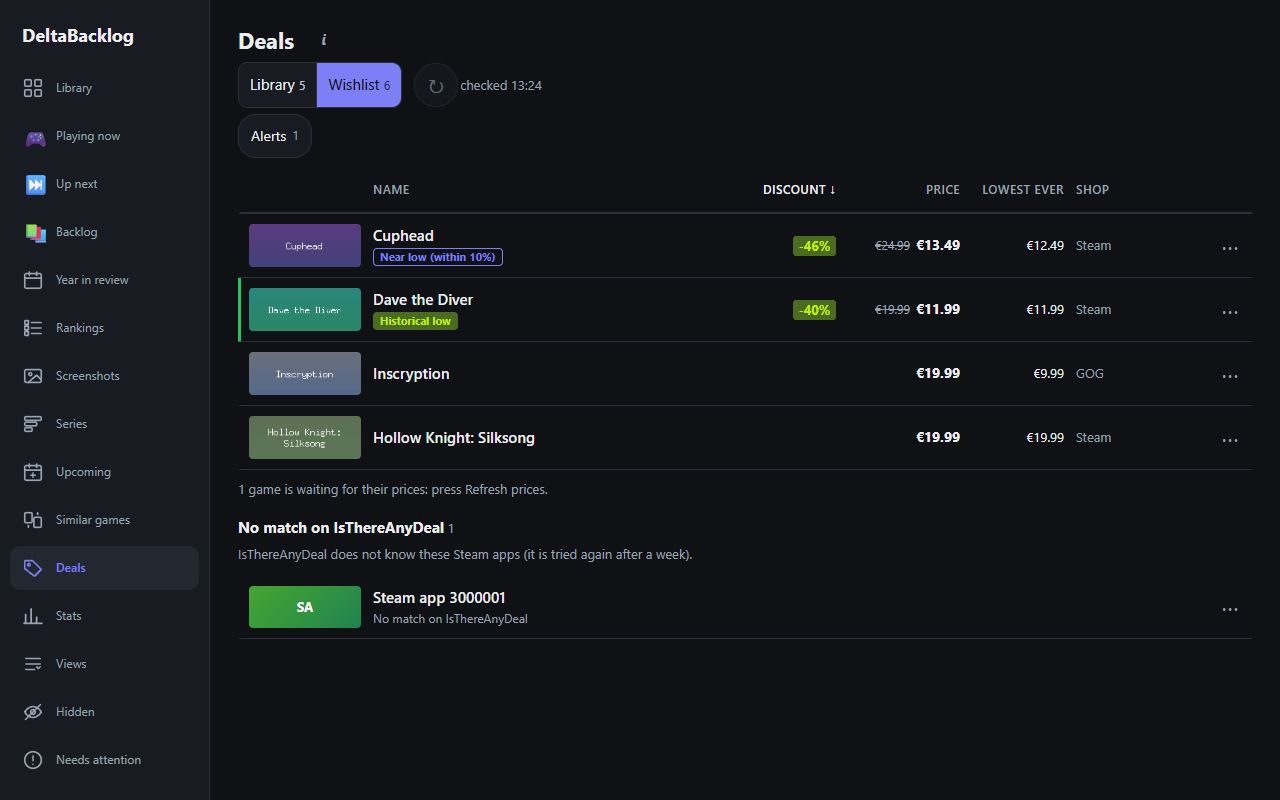
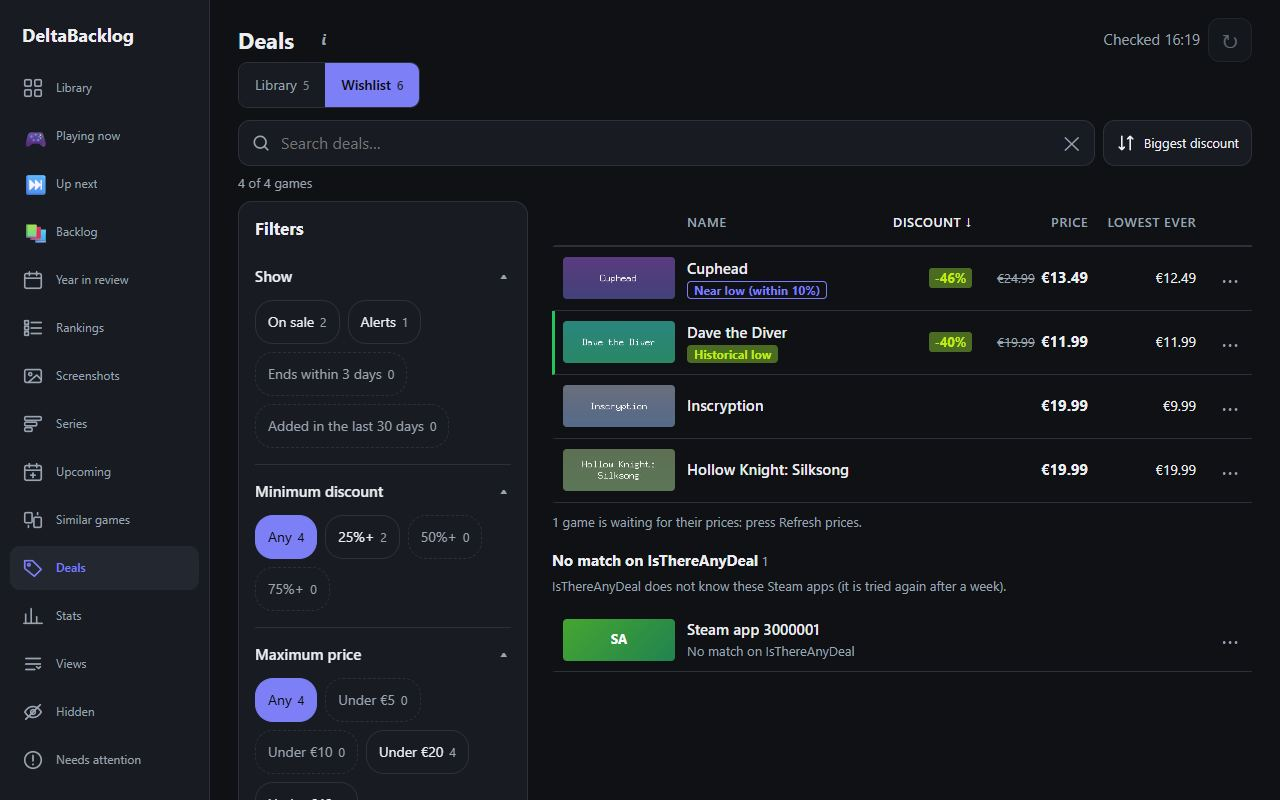
Deals: Library-style toolbar and filter panel, filters in the address, 6-hourly price check, docs and screenshots (service worker v75)

diff --git a/web/static/sw.js b/web/static/sw.js
@@ -1,6 +1,6 @@
 // App shell cache + runtime caching. Bump VERSION when shell files change.
 
-const VERSION = 'v74';
+const VERSION = 'v75';
 
 // The app's base path: '/' at the root, '/backlog/' behind a proxy that serves it under that prefix. Every path in
 // this file is relative to it (SHELL_FILES resolve against this script's URL).
@@ -14,7 +14,7 @@ const COVERS = `${NS}covers-v2`; // keyed by path (one entry per cover file); th
 const THUMBS = `${NS}screenshot-thumbs`; // shotsview.js deletes from it by the same name
 const MAX_THUMBS = 400; // thumbnails are ~30 KB each; originals are never cached
 const API = `${NS}api`;
-const SHELL_FILES = ['./', 'styles.css', 'js/main.js', 'js/api.js', 'js/util.js', 'js/format.js', 'js/library.js', 'js/drawer.js', 'js/sort.js', 'js/filters.js', 'js/ttb.js', 'js/ttbfilter.js', 'js/ttbview.js', 'js/views.js', 'js/order.js', 'js/reorder.js', 'js/table.js', 'js/picker.js', 'js/csv.js', 'js/add.js', 'js/uploadcheck.js', 'js/imageprep.js', 'js/platforms.js', 'js/ownership.js', 'js/form.js', 'js/editpatch.js', 'js/years.js', 'js/yearreview.js', 'js/yearpage.js', 'js/tierpng.js', 'js/rankboard.js', 'js/rankdrag.js', 'js/rankingedit.js', 'js/rankingspage.js', 'js/gamepicker.js', 'js/savequeue.js', 'js/more.js', 'js/colors.js', 'js/pick.js', 'js/surprise.js', 'js/series.js', 'js/seriesview.js', 'js/upcoming.js', 'js/upcomingview.js', 'js/similar.js', 'js/similarview.js', 'js/similardrawer.js', 'js/deals.js', 'js/dealsview.js', 'js/dealsdrawer.js', 'js/hidden.js', 'js/hiddenview.js', 'js/stats.js', 'js/statspage.js', 'js/link.js', 'js/linkqueue.js', 'js/attention.js', 'js/attentionview.js', 'js/relink.js', 'js/relinkprompt.js', 'js/shots.js', 'js/shotsview.js', 'js/gallery.js', 'js/gallerypage.js', 'js/shotviewer.js', 'js/layers.js', 'js/layerlogic.js', 'js/actionsheet.js', 'js/gameurl.js', 'js/tablegrid.js', 'icon.svg', 'icon-192.png', 'icon-512.png', 'icon-maskable-512.png', 'apple-touch-icon.png'];
+const SHELL_FILES = ['./', 'styles.css', 'js/main.js', 'js/api.js', 'js/util.js', 'js/format.js', 'js/library.js', 'js/drawer.js', 'js/sort.js', 'js/filters.js', 'js/ttb.js', 'js/ttbfilter.js', 'js/ttbview.js', 'js/views.js', 'js/order.js', 'js/reorder.js', 'js/table.js', 'js/picker.js', 'js/csv.js', 'js/add.js', 'js/uploadcheck.js', 'js/imageprep.js', 'js/platforms.js', 'js/ownership.js', 'js/form.js', 'js/editpatch.js', 'js/years.js', 'js/yearreview.js', 'js/yearpage.js', 'js/tierpng.js', 'js/rankboard.js', 'js/rankdrag.js', 'js/rankingedit.js', 'js/rankingspage.js', 'js/gamepicker.js', 'js/savequeue.js', 'js/more.js', 'js/colors.js', 'js/pick.js', 'js/surprise.js', 'js/series.js', 'js/seriesview.js', 'js/upcoming.js', 'js/upcomingview.js', 'js/similar.js', 'js/similarview.js', 'js/similardrawer.js', 'js/deals.js', 'js/dealsview.js', 'js/dealsdrawer.js', 'js/hidden.js', 'js/hiddenview.js', 'js/stats.js', 'js/statspage.js', 'js/link.js', 'js/linkqueue.js', 'js/attention.js', 'js/attentionview.js', 'js/relink.js', 'js/relinkprompt.js', 'js/shots.js', 'js/shotsview.js', 'js/gallery.js', 'js/gallerypage.js', 'js/shotviewer.js', 'js/layers.js', 'js/layerlogic.js', 'js/actionsheet.js', 'js/gameurl.js', 'js/filtershell.js', 'js/tablegrid.js', 'icon.svg', 'icon-192.png', 'icon-512.png', 'icon-maskable-512.png', 'apple-touch-icon.png'];
 
 self.addEventListener('install', (e) => {
   e.waitUntil(caches.open(SHELL).then((c) => c.addAll(SHELL_FILES)).then(() => self.skipWaiting()));

diff --git a/web/static/styles.css b/web/static/styles.css
@@ -1112,6 +1112,7 @@ button.up-open { cursor: pointer; border-radius: 8px; }
 .dl-title { display: block; overflow: hidden; text-overflow: ellipsis; white-space: nowrap; }
 .dl-tags { display: flex; gap: 4px; overflow: hidden; }
 .dl-tag { flex: none; font-size: 12px; font-weight: 700; line-height: 16px; padding: 0 6px; border-radius: 4px; white-space: nowrap; border: 1px solid transparent; }
+@media (max-width: 599px) { .dl-tag { font-size: 11px; } }
 .dl-tag.low { background: #4c6b22; color: #beee11; }
 .dl-tag.near { border-color: var(--accent); color: var(--accent); }
 .dl-tag.alert { background: #b45309; color: #fff; }

diff --git a/deploy/deals_timer_test.go b/deploy/deals_timer_test.go
@@ -51,7 +51,7 @@ func TestDealsTimerIsInstalled(t *testing.T) {
 			t.Errorf("service lacks %q", want)
 		}
 	}
-	for _, want := range []string{"OnCalendar=*-*-*", "Persistent=true", "RandomizedDelaySec=", "WantedBy=timers.target"} {
+	for _, want := range []string{"OnCalendar=*-*-* 02,08,14,20:00:00", "Persistent=true", "RandomizedDelaySec=15min", "WantedBy=timers.target"} {
 		if !strings.Contains(timer, want) {
 			t.Errorf("timer lacks %q", want)
 		}

diff --git a/docs/developer-manual.md b/docs/developer-manual.md
@@ -402,7 +402,7 @@ Plain ES modules loaded from `index.html`; hash routing (`#/library`, `#/view/<i
 | `gameurl.js` | **pure** `gameIdFromHash` / `hashWithGame`: the open game in the address (`#/<page>?game=<id>`). `drawer.js` sets it with `replaceUrl` on open and removes it (before releasing its layer) on close; `main.js` `showGame` opens it after a load or reload and on a hand-edited hash; `library.js` keeps it when it rewrites its own query |
 | `tablegrid.js` | **pure** `nextCell` (arrow, Home/End, PageUp/PageDown moves, clamped) and `isEditKey` for the table's roving focus; `table.js` keeps `active = {gid, ci}`, one `tabindex=0` cell, and a fallback tab stop on the grid while the active cell is windowed out |
 | `hidden.js`, `hiddenview.js` | **pure** `groupHidden` / `withoutItem` / `becauseTitles` / `hiddenOn` (the rows of `GET /api/hidden` by group, empty groups left out) and the `#/hidden` page (rows in the Upcoming style, **Show again** through the Deals, Similar and Series unhide calls, Undo hides again and reads the list again) |
-| `deals.js`, `dealsview.js`, `dealsdrawer.js` | **pure** `buildDeals` (the rows, only for the games in `info.watched`; `hiddenGames` for the Hidden list; the games with no match and those still waiting, status filter and the sorts), `badgeOf` (`low` at or under the recorded low, `near` within 10% above it), money and date formatting (`Intl`, en-GB), `safeLink` (http(s) only); the `#/deals` page (refresh job polling like the Series page, country field) and the drawer's **Price** row with the match fixer. The window event `deals-changed` makes the page reload after a match is changed in a drawer. Alerts: `alertOf`, `unseenCount`, `isMuted`, `ALERT_LABEL` and the `alertsOnly` option of `buildDeals` (the Alerts chip); the page marks the alerts seen once per visit (`dealsAlertsSeen`, remembering which were new for the *New* tag), opens an action sheet on a row tap (a native `<dialog>`, built by `openSheet`: View deal, Open game / Steam page, Add to library, Mute, Hide; it stays open across the poll redraws and closes on an action, Close, Escape or a view change) and, with `info.telegram`, has a **Send test message** button in the (i) panel; the drawer has the **Price alerts: on/off** toggle and the two-year low line. `main.js` reads `unseen` once at start-up (`loadDealsUnseen`) and shows a count badge on Deals in the sidebar, in the More sheet (a `badge` on the `MORE_PAGES` entry) and on the More button; `deals-unseen` redraws it. The **Library / Wishlist** switch (only when `info.wishlist` is not null) is `view` in `dealsview.js`; the pure `buildWishlist` (same sorts, tags and Alerts filter as `buildDeals`, plus `steamStoreURL`) feeds `wishRow`. Rows are one `dlRow` (a grid: capsule, name and tags, `-cut%`, price, and on a PC the Lowest ever / Shop / Ends / Added columns, Shop only from 1200px and Ends / Added only from 1440px, so titles keep their room and the page never scrolls sideways; the header row is `role=columnheader` buttons, a second click on the active one reverses with `dir = -1`). Pure and tested in `dealscolumns.test.mjs`: `rowSorter` (the key's natural order; rows with no value always last), `SORT_KEYS` (the phone select), `COLUMNS` (the table headers), `tagsOf`, `lowLine` and `checkedLabel`. Images: `wishImage` (`covers/<item.image>`) for wishlist games, and for library rows `coverURL || posterURL || info.lib_images[game.id]` (the Steam picture of their Steam link, for games without a cover). A wishlist row has no drawer (its sheet offers the Steam page); **Add to library** calls `openAdd({ query: title })` and the `games-changed` event reloads the cache, which no longer lists it (`dealswishlist.test.mjs`) |
+| `deals.js`, `dealsview.js`, `dealsdrawer.js`, `filtershell.js` | **pure** (`deals.js`) filters: `emptyDealsFilter` (`q`, `statuses`, `sale`, `minCut` 25/50/75, `maxPrice` 5/10/20/40 in whole currency units, `lows` historical / two_year / near, `alerts`, `stores`, `ends` within 3 days, `added` within 30 days), `rowPasses(f, row, now, skip)`, `lowKindsOf`, `endsWithin`, `storesOf`, `dealsFilterCount`, `priceFilterActive` (a filter only a price can pass also leaves the unmatched / waiting sections out) and the address: `dealsStateFromQuery` / `dealsStateToQuery` (`#/deals?view=wishlist&q=&status=&sale=1&min=&max=&low=&alerts=1&store=&ends=1&added=1&sort=&dir=-1`; anything unknown is dropped, defaults are not written, every shop is its own `store=`), tested in `dealsfilters.test.mjs`. `buildDeals` / `buildWishlist` take `{filter, sort, dir, now}` (`statuses` and `alertsOnly` still work). `filtershell.js` holds what the Library's toolbar shares with Deals: `createSearchBox`, `createFilterButton`, `createFilterShell` (the panel as a bottom sheet below 900px, a sidebar above, `inert` while closed, a layer), `filterGroup`, `pill` and `createSheet` (the sort sheets); `library.js` and `sort.js` use them too (the Library's address format is unchanged). The page keeps one persistent toolbar and panel and only repaints the results, chips, pills and head on `draw()` (so typing in the search box never loses focus) and writes its state with `replaceUrl`, keeping `game=`. The table's columns follow the width of the list (`container: dl` on `.dl-results`, `@container` rules), not the window. | `buildDeals` (the rows, only for the games in `info.watched`; `hiddenGames` for the Hidden list; the games with no match and those still waiting, status filter and the sorts), `badgeOf` (`low` at or under the recorded low, `near` within 10% above it), money and date formatting (`Intl`, en-GB), `safeLink` (http(s) only); the `#/deals` page (refresh job polling like the Series page, country field) and the drawer's **Price** row with the match fixer. The window event `deals-changed` makes the page reload after a match is changed in a drawer. Alerts: `alertOf`, `unseenCount`, `isMuted`, `ALERT_LABEL` and the `alertsOnly` option of `buildDeals` (the Alerts chip); the page marks the alerts seen once per visit (`dealsAlertsSeen`, remembering which were new for the *New* tag), opens an action sheet on a row tap (a native `<dialog>`, built by `openSheet`: View deal, Open game / Steam page, Add to library, Mute, Hide; it stays open across the poll redraws and closes on an action, Close, Escape or a view change) and, with `info.telegram`, has a **Send test message** button in the (i) panel; the drawer has the **Price alerts: on/off** toggle and the two-year low line. `main.js` reads `unseen` once at start-up (`loadDealsUnseen`) and shows a count badge on Deals in the sidebar, in the More sheet (a `badge` on the `MORE_PAGES` entry) and on the More button; `deals-unseen` redraws it. The **Library / Wishlist** switch (a `.mode` segment under the title, only when `info.wishlist` is not null) is `view` in `dealsview.js`; the pure `buildWishlist` (same sorts, tags and Alerts filter as `buildDeals`, plus `steamStoreURL`) feeds `wishRow`. Rows are one `dlRow` (a grid: capsule, name and tags, `-cut%`, price, and on a PC the Lowest ever / Shop / Ends / Added columns, Shop from a 840px wide list and Ends / Added from 980px, so titles keep their room and the page never scrolls sideways; the header row is `role=columnheader` buttons, a second click on the active one reverses with `dir = -1`). Pure and tested in `dealscolumns.test.mjs`: `rowSorter` (the key's natural order; rows with no value always last), `SORT_KEYS` (the phone select), `COLUMNS` (the table headers), `tagsOf`, `lowLine` and `checkedLabel`. Images: `wishImage` (`covers/<item.image>`) for wishlist games, and for library rows `coverURL || posterURL || info.lib_images[game.id]` (the Steam picture of their Steam link, for games without a cover). A wishlist row has no drawer (its sheet offers the Steam page); **Add to library** calls `openAdd({ query: title })` and the `games-changed` event reloads the cache, which no longer lists it (`dealswishlist.test.mjs`) |
 | `similar.js`, `similarview.js`, `similardrawer.js` | **pure** ranking and ownership of the suggestions (`similarIndex`, `becauseText`, `setHiddenFlag`, see "Similar games" in section 5), the `#/similar` page (rows, Add, Hide, Hidden list, refresh button) and the drawer's *Similar games* row |
 | `series.js`, `seriesview.js` | **pure** series grouping, progress counts and the "3 of 5" position (definitions of finished / played / left are in the header of `series.js` and in the user manual, section 14); plus the pure helpers of the "not registered" games (`missingIndex`, `shelfItems`, `fanGames`, `seriesSummary`); and the `#/series` page: the tile grid, and `#/series/<key>` as a poster shelf with Add and Hide (`seriesview.js`). It groups `store.games` by series name (case-insensitive), reads the server's cache from `GET api/series/missing` (polling it while a refresh runs) and redraws on `games-changed`. New requests there use relative URLs (`api/...`, `covers/...`) |
 | `attention.js`, `attentionview.js` | the Needs attention page (secondary actions behind **⋯**; `groupOpen` / `withGroupOpen` are the pure open-state rules: collapsed above `OPEN_AT_MOST` = 3 items, a choice wins, kept in `sessionStorage`) (route `#/attention`, in the More menu; the *No time to beat* group has **Find times for all**, which starts `POST /api/ttb/sync` and polls `GET /api/ttb/sync` once a second, then `refreshGames()` reloads what the run changed): `attention.js` is **pure** (which games belong to which group: `problemsOf`, `buildGroups` with the per-group ignore list and the review queue's proposals; `TTB_STATUSES`), `attentionview.js` draws the collapsible groups and maps each group's fix to the picker, drawer (`openDrawer(game, {edit: 'Platforms'})`, `{ttb: true}`) or link call. It is computed from `store.games`; the only requests are the local `GET /api/link/queue` and `GET /api/attention/ignored` |
@@ -457,7 +457,7 @@ Plain ES modules loaded from `index.html`; hash routing (`#/library`, `#/view/<i
 | What | How |
 |---|---|
 | Backend | `go vet ./... && go test ./...` (in-memory databases, `httptest` fake IGDB/SteamGridDB/image servers) |
-| Pure frontend modules | `node --test web/test/*.test.mjs`: one file per pure module (`api`, `colors`, `csv`, `deals`, `dealsalerts`, `dealswishlist`, `editpatch`, `filters`, `attention`, `gameurl`, `tablegrid`, `gallery`, `hidden`, `linkqueue`, `relink`, `more`, `ownership`, `pick`, `platforms`, `rankboard`, `reorder` (also covers `order.js`), `savequeue`, `series`, `shots`, `similar`, `sort`, `stats`, `ttb`, `uploadcheck`, `upcoming`, `yearreview`, `years`; `deals` is covered by `deals`, `dealsalerts` and `dealswishlist`). Pages that draw the DOM (`*page.js`, `*view.js`, `*drawer.js`, `surprise.js`, `link.js`) are checked in a browser |
+| Pure frontend modules | `node --test web/test/*.test.mjs`: one file per pure module (`api`, `colors`, `csv`, `deals`, `dealsfilters`, `dealsalerts`, `dealswishlist`, `editpatch`, `filters`, `attention`, `gameurl`, `tablegrid`, `gallery`, `hidden`, `linkqueue`, `relink`, `more`, `ownership`, `pick`, `platforms`, `rankboard`, `reorder` (also covers `order.js`), `savequeue`, `series`, `shots`, `similar`, `sort`, `stats`, `ttb`, `uploadcheck`, `upcoming`, `yearreview`, `years`; `deals` is covered by `deals`, `dealsalerts` and `dealswishlist`). Pages that draw the DOM (`*page.js`, `*view.js`, `*drawer.js`, `surprise.js`, `link.js`) are checked in a browser |
 | Backend, by area | `internal/api` (games, views, rankings, link endpoints), `internal/posters` (the poster maker, queue and `fetch-posters` with an offline fake source), `internal/covers` (poster crop and limits), `internal/db` (migrations, backup/check), `internal/meta`, `internal/igdblink`, `internal/importer`, `internal/covers`, `internal/shots` (sniffing, EXIF, rotation, incremental copy), `internal/api/screenshots_test.go` (streaming upload, size limits, content sniffing, traversal names, decompression bomb, cascade delete removes files, missing storage never created), `deploy/scripts_test.go` (`sh -n`, the free-space guard, the drop-in generation, the database copy to the drive; skipped where there is no `sh`) |
 | IGDB sync | `internal/igdblink` tests use an offline fake IGDB (`refetch_test.go`: fill-only-empty vs replace, preview writes nothing, hand-typed and HowLongToBeat times and platforms kept, IGDB times written as a set, release date in the preview, owner fields untouched, undo round trip, library series kept, errors; buckets, dry run writes nothing, backup, resume, 429 backoff, review queue, migration 006; `enrich_test.go`: fill-only-empty (also no new lookup rows), series rules, platform mapping and Go/JS alias parity, outlier times, Retry-After, batching, resume after throttling, backoff doubling, refresh, dry run, migration 007 on a populated database); `internal/meta/enrich_test.go` (query shape, no scores, store-link classification); `internal/api/ttbsync_test.go` (bulk HowLongToBeat with a fake client: confident match saved, namesakes and other years left for a manual pick, time set by hand kept, ignored and other-status games not searched, cancel, site down) and `hltb.Confident`; `internal/hltb` (fake site: ranking, seconds to minutes, token reuse and refresh, `ErrUnavailable` / `ErrChanged`, spacing, no scores kept; a live test); `internal/api/ttb_test.go` (PATCH/POST validation and merge, source rules, IGDB relink, the search endpoint and its failure messages); `internal/igdblink/ttb_source_test.go` (the enrichment never overwrites `hltb`/`manual` times); `internal/db/ttb_source_test.go` (migration 012 on a populated database); `internal/api/enrich_test.go` (read model and facets); `internal/api/link_test.go` covers the three endpoints; `internal/collections` (offline fake IGDB: the series-to-collection mapping through linked games and which collection a series picks, the Ace Attorney family shape (original, owned entry, remaster, shared parent, the chain through an entry in no collection), standalone expansions and remakes not being the same game (Lost Legacy / Uncharted 4, Resident Evil 2), the tie-break rules (Zelda with only Ocarina linked), a young unnamed file surviving the sweep, only the missing games, an added game leaves the list, hide and unhide, posters kept and cleaned, pruning, progress over the poster phase, only `images.igdb.com` is fetched, a failing collection and a 429 keep what was stored), `internal/meta/collections_test.go` (query shape, game types, no scores), `internal/api/series_test.go` (the page reads the cache only, hide/unhide, validation, Add stores the root) and `internal/db/series_collections_test.go` (migration 013 on a populated database) |
 | Backend, newer areas | `internal/deals` (the scope rule per ownership value, played and status, hide and refresh in `scope_test.go`; fake IsThereAnyDeal: matching by app id and title, owner choices kept, 429 stops with what was saved, prices dropped on a country change), `internal/api/deals_test.go` (the cache-only reads, the one-at-a-time job, validation), `internal/deals/alerts_test.go` (the alert rule, retry of undelivered alerts, stale and ended deals, two-year vs historical low, mute, no repeat and a lower price repeating, hidden and out-of-scope games skipped, history calls only where needed, the Telegram request shape and token-free errors against an `httptest` server, the run lock), `internal/api/deals_alerts_test.go` (mute, seen, the Telegram test endpoint, the `409` during a check), `cmd/deltabacklog/dealscheck_test.go` (the `deals-check` command and the log-free settings check), `internal/db/price_alerts_migration_test.go` (migration 020 on a populated database), `deploy/deals_timer_test.go` (the timer files and the kept Telegram settings), `internal/collections/similar_test.go` and `release_test.go`, `internal/db/deals_migration_test.go` (migrations 016 and 019), `series_collections_test.go` and `similar_games_test.go` (migrations 013 to 015 on populated databases) and the migration 018 test in `internal/db` (a populated database, saved views included) |

diff --git a/docs/user-manual.md b/docs/user-manual.md
@@ -380,7 +380,9 @@ The suggestions are saved on the server. Opening the page never asks IGDB: tap *
 
 *Needs an IsThereAnyDeal key ([section 3](#3-setting-up-keys)). Games are matched through their Steam store link (from IGDB) or exact title.*
 
-**Deals** shows what the games you **don't own and haven't played yet** cost right now and how that compares with the lowest price they ever had, from [IsThereAnyDeal](https://isthereanydeal.com). Games on sale come first, biggest discount first; then the games that are not on sale but are at or near their historical low. A game gets a **Historical low** badge when its price is at (or under) the lowest ever recorded, and **Near low (within 10%)** when it is at most 10% above it. The badges only appear when that low was a real discount or the game is on sale now: a game that has always cost its full price has none. Each game is one compact row, like SteamDB's sales list: a small picture, the name with small tags (**Historical low**, **Lowest in 2 years**, **New**), a green discount box (**-75%**), the price and the regular price struck through, and a muted line with the lowest price ever and where it was. A game with no cover of its own, but a Steam link, gets its Steam picture. A coloured bar on the left marks the games at their historical low (green) or with another alert (orange). **Tap a row** to open its actions: **View deal ↗** (the shop page, in a new tab), **Open game** (the game's details), **Mute price alerts** and **Hide from Deals**. On a PC the list is a table with the columns *Name, Discount, Price, Lowest ever, Shop, Ends* (and *Added* on the wishlist; *Shop* needs a window at least 1200px wide, *Ends* and *Added* 1440px): click a column header to sort by it, click it again to reverse; on a phone the sort menu next to the chips does the same. The toolbar has the **Library / Wishlist** switch, **↻** to refresh the prices with *checked 16:56* next to it, and the country code; the **i** button explains the page. The chips (status, **Alerts**) scroll sideways when they do not fit.
+**Deals** shows what the games you **don't own and haven't played yet** cost right now and how that compares with the lowest price they ever had, from [IsThereAnyDeal](https://isthereanydeal.com). Games on sale come first, biggest discount first; then the games that are not on sale but are at or near their historical low. A game gets a **Historical low** badge when its price is at (or under) the lowest ever recorded, and **Near low (within 10%)** when it is at most 10% above it. The badges only appear when that low was a real discount or the game is on sale now: a game that has always cost its full price has none. Each game is one compact row, like SteamDB's sales list: a small picture, the name with small tags (**Historical low**, **Lowest in 2 years**, **New**), a green discount box (**-75%**), the price and the regular price struck through, and a muted line with the lowest price ever and where it was. A game with no cover of its own, but a Steam link, gets its Steam picture. A coloured bar on the left marks the games at their historical low (green) or with another alert (orange). **Tap a row** to open its actions: **View deal ↗** (the shop page, in a new tab), **Open game** (the game's details), **Mute price alerts** and **Hide from Deals**. On a PC the list is a table with the columns *Name, Discount, Price, Lowest ever, Shop, Ends* (and *Added* on the wishlist): the page uses the whole width like the Library, the name takes the room that is left, and *Shop*, *Ends* and *Added* appear when the list is wide enough. Click a column header to sort by it, click it again to reverse; the sort button next to the search box does the same on any screen.
+
+**Search and filters.** Deals has the Library's toolbar: a search box (it finds titles as you type; press `/` to jump to it), a **Filters** button with a count of the filters that are on (a side panel on a PC, a bottom sheet on a phone) and a sort button. The panel has the same chips as the Library, each with the number of games it would show: **Status** (Backlog, Up next; the library list only), **On sale**, **Alerts**, **Ends within 3 days**, **Added in the last 30 days** (the wishlist only), **Minimum discount** (any, 25%+, 50%+, 75%+), **Maximum price** (under 5, 10, 20 or 40 in your currency), **Low price** (Historical low, Lowest in 2 years, Near low) and **Store** (the stores the listed games have). **Reset** clears them, **Show N games** closes the sheet. Every active filter is also a pill under the search box: tap it to remove it. The filters are in the address (for example `#/deals?view=wishlist&min=50&sale=1`), so a reload, Back and a bookmark keep them. Under **Library / Wishlist** (right below the title) the two lists have the same filters. The page head has **↻** to refresh the prices with *Checked 16:56* next to it, and the **i** button explains the page and holds **Preferred stores** and the Telegram test. The country code is in the filter panel (*Prices for*).
 
 **Which games are listed.** A game is on Deals when both are true: you don't own it, meaning its *Ownership* is **Borrowed**, **Family Share** or **Nope**, or it has none (**Owned**, **Free to play** and **Pirated** games never appear); and you haven't played it, meaning it is in the **Backlog** or **Up next** and has no years played (not even *childhood* or *always*). Finished, dropped, playing, on hold, evergreen and not interested games are left out. When you change a game so that it no longer fits (you buy it, or log a year of play), it leaves the page and is no longer refreshed; its saved match and prices are kept in case it comes back.
 
@@ -407,7 +409,7 @@ View deal
 
 **The check every 6 hours.** On the Raspberry Pi a timer reads the prices every 6 hours (about 02:00, 08:00, 14:00 and 20:00, each with a small random delay) and sends the alerts, so you do not have to press anything: the alerts and prices are there when you open Deals. It does the same as **↻ Refresh prices**, for the games on the page (not the hidden ones), and does not run together with a refresh you start by hand: it waits up to 20 minutes for yours to end (and **Refresh prices** says so if the scheduled check is running at that moment). If Telegram cannot be reached, the alert is still in the app and is sent at the next check. On a PC, run `deltabacklog deals-check` yourself, or from your own scheduler.
 
-**Your Steam wishlist.** If you set `STEAM_ID` ([section 3](#3-setting-up-keys)), Deals gets two buttons at the top: **Library** (everything above) and **Wishlist** (your Steam wishlist, with its count). The wishlist is **not part of your library**: its games have no status, never appear in the Library, views, stats or series, and this is not the old *Wishlist* status. A wishlist row looks like a library row (the best price now, the historical low, the same tags, **Alerts**, **Mute** and **Hide**) and its actions add **Add to library**, which opens the normal add form with the title, so you choose the status and ownership, and **Steam page ↗**. Its picture is Steam's small capsule art: the app downloads it once during **↻ Refresh prices** (a few requests for the whole list; a game that has its picture is never asked about again) and serves it from your own server, so your browser never talks to Steam's servers; a game without one shows coloured initials. Once the game is in your library the row disappears from the wishlist (it is matched by Steam link, by its IsThereAnyDeal game or by its title), and from then on it is listed as a library game only if the rule above applies to it. A game you buy leaves your Steam wishlist, so it leaves this list the next time you press **↻ Refresh prices** (or the scheduled check runs). The wishlist is read from Steam only then, never when a page opens, and price alerts, including the Telegram messages (marked *💙 Wishlist*), work like those of the library games.
+**Your Steam wishlist.** If you set `STEAM_ID` ([section 3](#3-setting-up-keys)), Deals gets two buttons under the title: **Library** (everything above) and **Wishlist** (your Steam wishlist, with its count). The wishlist is **not part of your library**: its games have no status, never appear in the Library, views, stats or series, and this is not the old *Wishlist* status. A wishlist row looks like a library row (the best price now, the historical low, the same tags, **Alerts**, **Mute** and **Hide**) and its actions add **Add to library**, which opens the normal add form with the title, so you choose the status and ownership, and **Steam page ↗**. Its picture is Steam's small capsule art: the app downloads it once during **↻ Refresh prices** (a few requests for the whole list; a game that has its picture is never asked about again) and serves it from your own server, so your browser never talks to Steam's servers; a game without one shows coloured initials. Once the game is in your library the row disappears from the wishlist (it is matched by Steam link, by its IsThereAnyDeal game or by its title), and from then on it is listed as a library game only if the rule above applies to it. A game you buy leaves your Steam wishlist, so it leaves this list the next time you press **↻ Refresh prices** (or the scheduled check runs). The wishlist is read from Steam only then, never when a page opens, and price alerts, including the Telegram messages (marked *💙 Wishlist*), work like those of the library games.
 
 **Making your wishlist public.** Steam only shares a public wishlist. In Steam open *your name → View my profile → Edit Profile → Privacy Settings* and set **Game details** to **Public** (and, if you use it, make sure the wishlist itself is not hidden). If Steam sends nothing, Deals says *Steam sent no wishlist games: the wishlist is empty or not public* under the buttons and keeps the list it had, so a private or empty wishlist never wipes it. Steam answers a private wishlist and an emptied public one the same way, so when you buy or remove the **last** game on your wishlist, Deals cannot tell and keeps showing the old list; hide the leftovers with **Hide**, or add a game to your Steam wishlist and refresh, and the list follows Steam again. A game IsThereAnyDeal does not know is listed under *No match on IsThereAnyDeal* and tried again after a week. The first run looks up each wishlist game once (about 0.4 seconds each, 130 games take about a minute); if IsThereAnyDeal asks you to slow down, the run stops with what it saved and the next one carries on.
 
@@ -421,7 +423,7 @@ On a PC the same list is a sortable table:
 
 ![The Deals table on a PC](img/deals-desktop.jpg)
 
-Prices are saved on the server. Opening the page never asks IsThereAnyDeal: tap **↻ Refresh prices** to read them (a background run with progress). The first run, and any game you add later, needs one or two lookups per game to find it on IsThereAnyDeal (about 0.4 seconds each, so a few minutes for a few hundred games); after that a refresh needs about one request per 50 games. *checked 16:56* next to the refresh button tells you how old they are (a time today, a date and time before). Prices are for one country, shown in its currency: **Country** (two letters, `ES` by default) can be changed on the page; the saved prices are then dropped, and you press **Refresh prices** to read them for the new country.
+Prices are saved on the server. Opening the page never asks IsThereAnyDeal: tap **↻ Refresh prices** to read them (a background run with progress). The first run, and any game you add later, needs one or two lookups per game to find it on IsThereAnyDeal (about 0.4 seconds each, so a few minutes for a few hundred games); after that a refresh needs about one request per 50 games. *Checked 16:56* next to the refresh button tells you how old they are (a time today, a date and time before). Prices are for one country, shown in its currency: **Prices for** (two letters, `ES` by default, in the filter panel) can be changed on the page; the saved prices are then dropped, and you press **Refresh prices** to read them for the new country.
 
 **Fixing a match.** A game is matched with IsThereAnyDeal by the Steam store link in its details when it has one, otherwise by its exact title. When there is no exact match the game is listed under **No match on IsThereAnyDeal** instead of guessing. Open it and use **Pick the game** (or **Wrong game?** when the match is wrong): search by title, tap the right game, or choose **No match on IsThereAnyDeal**. Your choice is kept; **Match automatically** gives control back. The same **Price** line appears in a game's details. A game that is matched but that no shop lists right now is named in a short note under the list: it is often an old or delisted entry (for example a game and its *Final Cut*), so open it and tap **Wrong game?**.
 

diff --git a/CHANGELOG.md b/CHANGELOG.md
@@ -6,6 +6,8 @@ All notable changes to DeltaBacklog are documented here. The format follows [Kee
 
 ### Added
 
+- **Deals in the Library's style, with filters**: the page uses the whole width and the base text size, and has the Library's toolbar: the same search box, **Filters** button (side panel on a PC, bottom sheet on a phone, with Reset and *Show N games*) and a sort sheet. New filters for the library list and the wishlist: status, on sale, minimum discount (25/50/75%), maximum price (5/10/20/40), low type (historical, lowest in 2 years, near), alerts, store, ends within 3 days and (wishlist) added in the last 30 days, all in the address (`#/deals?view=wishlist&min=50&sale=1`). **Library / Wishlist** is now a segment control under the title, **↻** a normal button with *Checked 15:32* in muted text, and the country (*Prices for*) sits in the filter panel. The toolbar pieces are shared with the Library (`filtershell.js`).
+- **The price check runs every 6 hours** (02:00, 08:00, 14:00 and 20:00, each with up to 15 minutes of random delay) instead of once a day. The request count stays small: at most 15 price-history reads per run, and a game whose two-year low was read within the last 7 days is skipped.
 - **Preferred stores on Deals**: rank the shops you like (for example Steam over Microsoft Store or Epic) from the **i** panel, **Preferred stores**. The price shown, the sort and the price alerts (and the Telegram messages) follow the highest-ranked shop that sells the game, not the cheapest offer; a historical low that exists only at a lower-ranked shop does not alert. A clearly cheaper offer at another shop (more than a threshold you set, 15% by default) appears as a small hint such as *€9.99 at Epic Game Store*. An empty list keeps the old behaviour. One extra batched request (`POST /games/prices/v3`, 200 games) per refresh, none per game. Migration 022 (`alt_shop`, `alt_price`, `alt_url` on `deal_price` and `wish_price`; the ranking is in `setting`). New endpoints `GET` / `PUT /api/deals/stores` and `GET /api/deals/shops`; `GET /api/deals` also answers `stores`.
 - **A denser Deals page**: one compact row per game (SteamDB style) with a small picture, the name and tags, a green discount box, the price and the lowest ever, and a sortable table with column headers on a PC; a tap on a row opens an action sheet (View deal, Open game / Steam page, Add to library, Mute, Hide); a one-line toolbar (Library / Wishlist, refresh with the time it was checked, country) and filter chips in one scrolling row.
 - **Pictures for your wishlist games on Deals**: Steam's small capsule art, downloaded once during a refresh (a few batched requests, only for games without one) and served from your own server. Library games with no cover but a Steam link get the same picture; pictures of games that left your wishlist are removed.
